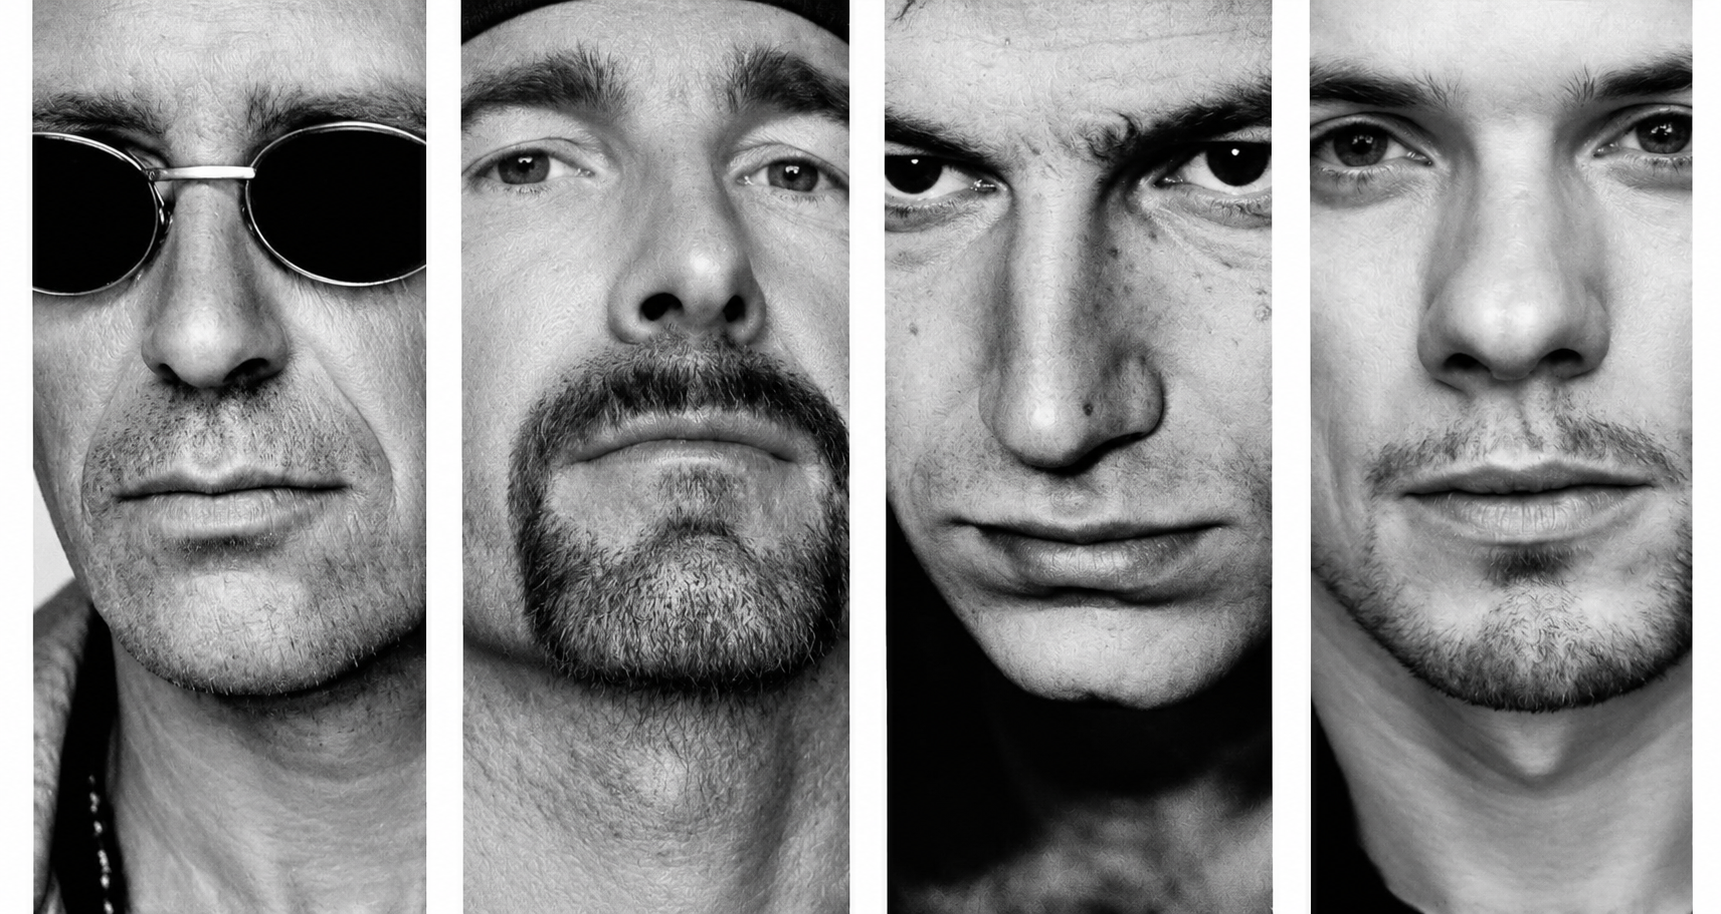
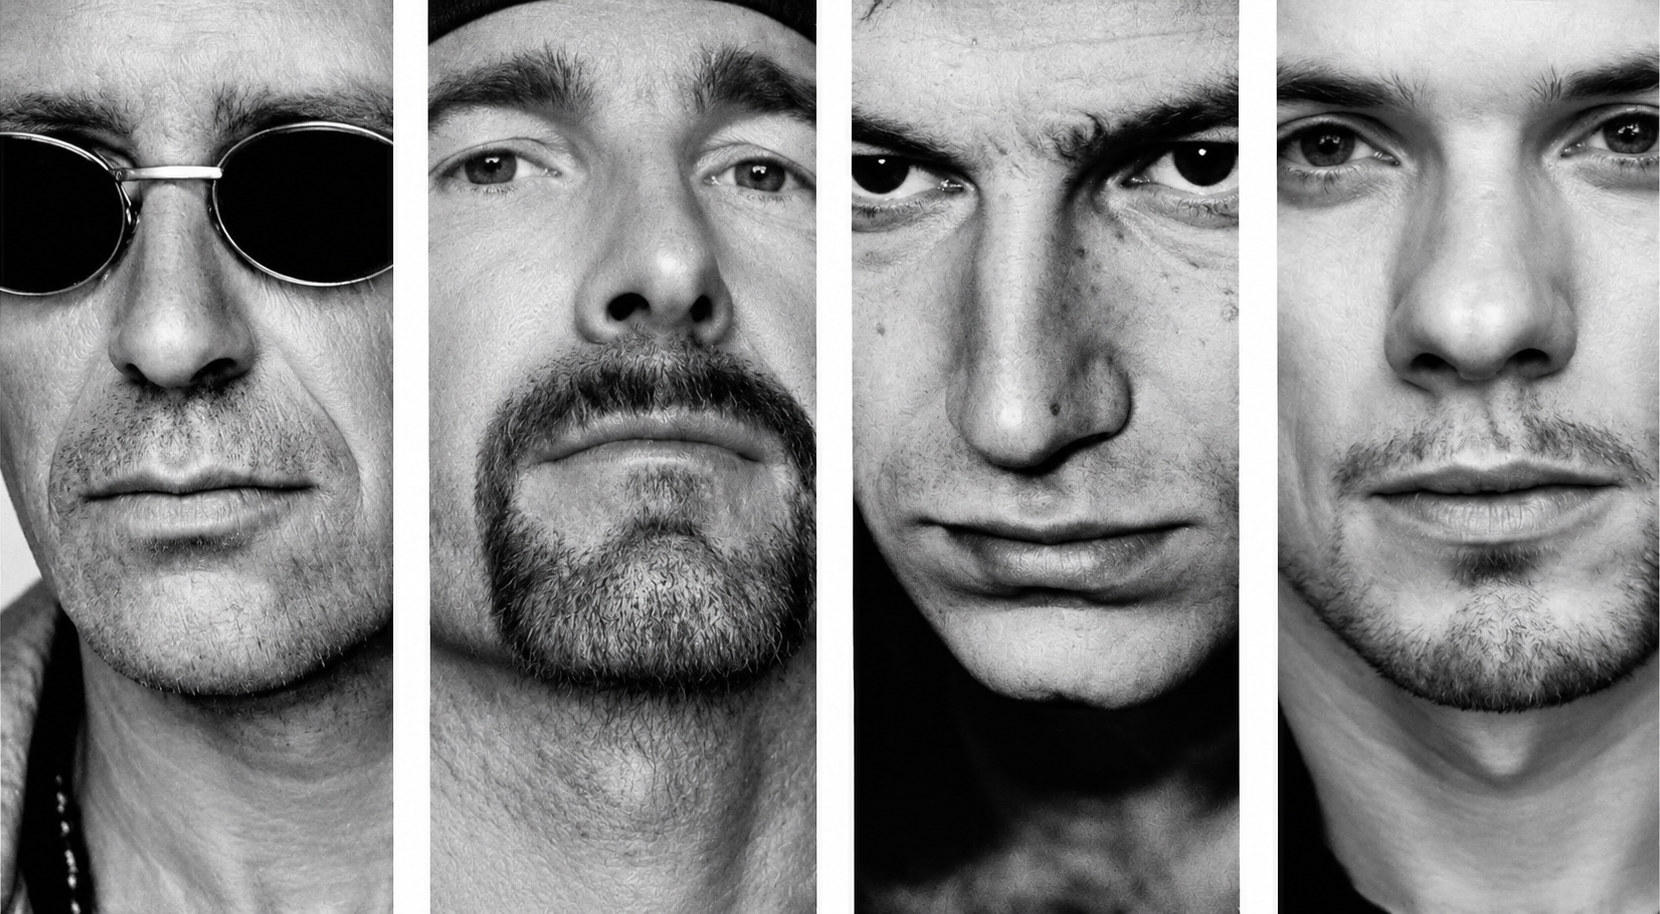
CSS membres

diff --git a/fansite1/membres.html b/fansite1/membres.html
@@ -5,6 +5,7 @@
     <meta charset="UTF-8">
     <meta name="viewport" content="width=device-width, initial-scale=1.0">
     <title>U2 - Les membres</title>
+    <link rel="stylesheet" href="fansite1.css">
 </head>
 
 
@@ -61,10 +62,10 @@
 
                 <article class="article1_membres">
 
-                    <img src="images/U2 membres.png" alt="U2 membres">
+                    <img id="members" src="images/U2 membres.png" alt="U2 membres">
 
                     <div>
-                        <img src="images/logoU2.png" alt="logo U2">
+                        <img class="logoU2" src="images/logoU2.png" alt="logo U2">
                         <h1>Les membres</h1>
                     </div>
 
@@ -72,8 +73,7 @@
 
 
                 <article class="article2_membres">
-                    <p>U2 est composé de quatre musiciens irlandais : Bono, The Edge, Adam Clayton et Larry Mullen Jr.
-                    </p>
+                    <p>U2 est composé de quatre musiciens irlandais : Bono, The Edge, Adam Clayton et Larry Mullen Jr.</p>
 
 
                     <div class="parent">
@@ -81,43 +81,43 @@
                         <div class="Bono">
                             <img src="images/bono.png" alt="Bono">
                             <h2>Bono</h2>
-                            <p>Chant, paroles</p>
-                            <p>Paul David Hewson, dit Bono, est le chanteur et principal parolier de U2. Sa voix et ses
+                            <p class="quality">Chant, paroles</p>
+                            <p class="introduce">Paul David Hewson, dit Bono, est le chanteur et principal parolier de U2. Sa voix et ses
                                 engagements humanitaires ont largement contribué à faire du groupe une référence
                                 mondiale.
                             </p>
-                            <a href="">En savoir plus ></a>
+                            <a class="button" href="">En savoir plus ></a>
                         </div>
 
                         <div class="TheEdge">
                             <img src="images/the edge.png" alt="The Edge">
                             <h2>The Edge</h2>
-                            <p>Guitare, claviers, chœurs</p>
-                            <p>David Howell Evans, dit The Edge, est le guitariste de U2. Reconnaissable à son jeu
+                            <p class="quality">Guitare, claviers, chœurs</p>
+                            <p class="introduce">David Howell Evans, dit The Edge, est le guitariste de U2. Reconnaissable à son jeu
                                 atmosphérique
                                 et à ses sonorités innovantes, il façonne le son unique du groupe.</p>
-                            <a href="">En savoir plus ></a>
+                            <a class="button" href="">En savoir plus ></a>
                         </div>
 
 
                         <div class="Adam">
                             <img src="images/adam.png" alt="Adam Clayton">
                             <h2>Adam Clayton</h2>
-                            <p>Basse</p>
-                            <p>Adam Clayton est le bassiste de U2. Véritable pilier rythmique, il apporte au groupe une
+                            <p class="quality">Basse</p>
+                            <p class="introduce">Adam Clayton est le bassiste de U2. Véritable pilier rythmique, il apporte au groupe une
                                 base
                                 solide et un jeu mélodique, contribuant à l'équilibre de leurs compositions.</p>
-                            <a href="">En savoir plus ></a>
+                            <a class="button" href="">En savoir plus ></a>
                         </div>
 
 
                         <div class="Larry">
                             <img src="images/larry.png" alt="Larry Mullen Jr.">
                             <h2>Larry Mullen Jr.</h2>
-                            <p>Basse</p>
-                            <p>Larry Mullen Jr. est le batteur de U2 et l'un des fondateurs du groupe. Son jeu précis et
+                            <p class="quality">Batterie</p>
+                            <p class="introduce">Larry Mullen Jr. est le batteur de U2 et l'un des fondateurs du groupe. Son jeu précis et
                                 puissant donne à la musique de U2 son énergie et son ampleur caractéristiques.</p>
-                            <a href="">En savoir plus ></a>
+                            <a class="button" href="">En savoir plus ></a>
                         </div>
 
                     </div>

diff --git a/fansite1/fansite1.css b/fansite1/fansite1.css
@@ -259,6 +259,7 @@ main .article1_home>div:last-of-type p {
 .article1_home .logoU2 {
     height: 130px;
     width: auto;
+    filter: drop-shadow(0 0 8px #241C17)
 }
 
 /*Mise en forme du lien "Découvrez le groupe" sous forme de bouton*/
@@ -374,6 +375,7 @@ main .article1_home>div:last-of-type:hover hr {
 .article1_biographie .logoU2 {
     height: auto;
     width: 300px;
+    filter: drop-shadow(0 0 8px #241C17)
 }
 
 .article1_biographie div {
@@ -575,6 +577,173 @@ main .article1_home>div:last-of-type:hover hr {
 
 
 
+/********************************************
+                LES MEMBRES
+********************************************/
+
+/*Article 1*/
+
+/*Mise en forme du logo U2*/
+.article1_membres .logoU2 {
+    height: auto;
+    width: 300px;
+    filter: drop-shadow(0 0 8px #241C17);
+}
+
+.article1_membres #members {
+    width: 100%;
+    object-fit: cover;
+    height: 480px;
+    display: block;
+    transition: transform 3s ease;
+    object-position: center 5%;
+
+}
+
+.article1_membres div {
+    position: absolute;
+    display: flex;
+    flex-direction: column;
+    align-items: center;
+    justify-content: center;
+    right: 30px;
+    top: 215px;
+    background-color: rgba(36, 28, 23, 0.65);
+    box-shadow: 0 0 30px 20px rgba(36, 28, 23, 0.65);
+    padding: 30px;
+}
+
+.article1_membres div h1 {
+    margin: 0;
+}
+
+
+
+
+
+
+
+
+
+/*Mise en forme du mot "Les membres" sous le logo U2*/
+.article1_membres div h1 {
+    background-color: #781C23;
+    font-size: 25px;
+    text-align: center;
+    /*Permet de centrer horizontalement le mot dans son bloc*/
+    padding: 10px 20px;
+    transform: rotate(-4deg);
+    text-transform: uppercase;
+    letter-spacing: 3px;
+    font-weight: bold;
+    margin-top: 15px;
+}
+
+/*Article 2*/
+.article2_membres .parent {
+    display: grid;
+    grid-template-columns: repeat(4, 1fr);
+    gap: 10px;
+}
+
+.article2_membres {
+    background-image: url(images/texture\ claire.png);
+    padding: 30px;
+}
+
+.article2_membres>p:first-of-type {
+    margin-top: 0;
+    font-style: italic;
+    font-family: Georgia, serif;
+    color: #352019;
+    font-weight: bold;
+    font-family: 20px;
+    text-align: center;
+    justify-content: center;
+    display: flex;
+    gap: 20px;
+    align-items: center;
+    margin-bottom: 50px;
+}
+
+.article2_membres>p:first-of-type::before,
+.article2_membres>p:first-of-type::after {
+    content: "";
+    display: block;
+    background-color: #781C23;
+    width: 100px;
+    height: 3px;
+}
+
+.article2_membres h2 {
+    color: #781C23;
+    font-family: Georgia, serif;
+    font-size: 20px;
+    font-weight: bold;
+}
+
+.article2_membres .introduce {
+    font-family: Georgia, serif;
+    font-size: 16px;
+    color: #352019;
+    line-height: 1.4;
+}
+
+.article2_membres .quality {
+    font-family: Georgia, serif;
+    font-size: 18px;
+    font-style: italic;
+    font-weight: bold;
+    color: #352019;
+}
+
+.article2_membres .button {
+    font-family: Georgia, serif;
+    font-size: 16px;
+    font-weight: bold;
+    color: #F2E6D0;
+    text-decoration: none;
+    background-color: #781C23;
+    
+    border-radius: 4px;
+    padding: 10px 35px;
+    text-align: center;
+}
+
+.article2_membres .parent div {
+    background-image: linear-gradient(rgba(255, 240, 215, 0.6),
+            rgba(255, 240, 215, 0.6)), url(images/texture\ claire.png);
+    border-radius: 5px;
+    padding:15px;
+    display: flex;
+    flex-direction: column;
+    justify-content: center;
+}
+
+.article2_membres .parent div .button{
+    margin-top: auto;
+}
+
+
+
+
+
+
+
+
+
+
+
+
+
+
+
+
+
+
+
+
+
 
 
 
@@ -665,7 +834,7 @@ main .article1_home>div:last-of-type:hover hr {
     }
 
     /*Positionnement du logo et du bandeau sur la photo*/
-    main .article1_biographie > div {
+    main .article1_biographie>div {
         right: 20px;
         top: 180px;
     }
@@ -846,7 +1015,7 @@ main .article1_home>div:last-of-type:hover hr {
     }
 
     /*Positionnement du logo et du bandeau sur la photo*/
-    main .article1_biographie > div:first-of-type {
+    main .article1_biographie>div:first-of-type {
         position: absolute;
         right: 15px;
         top: 80px;
